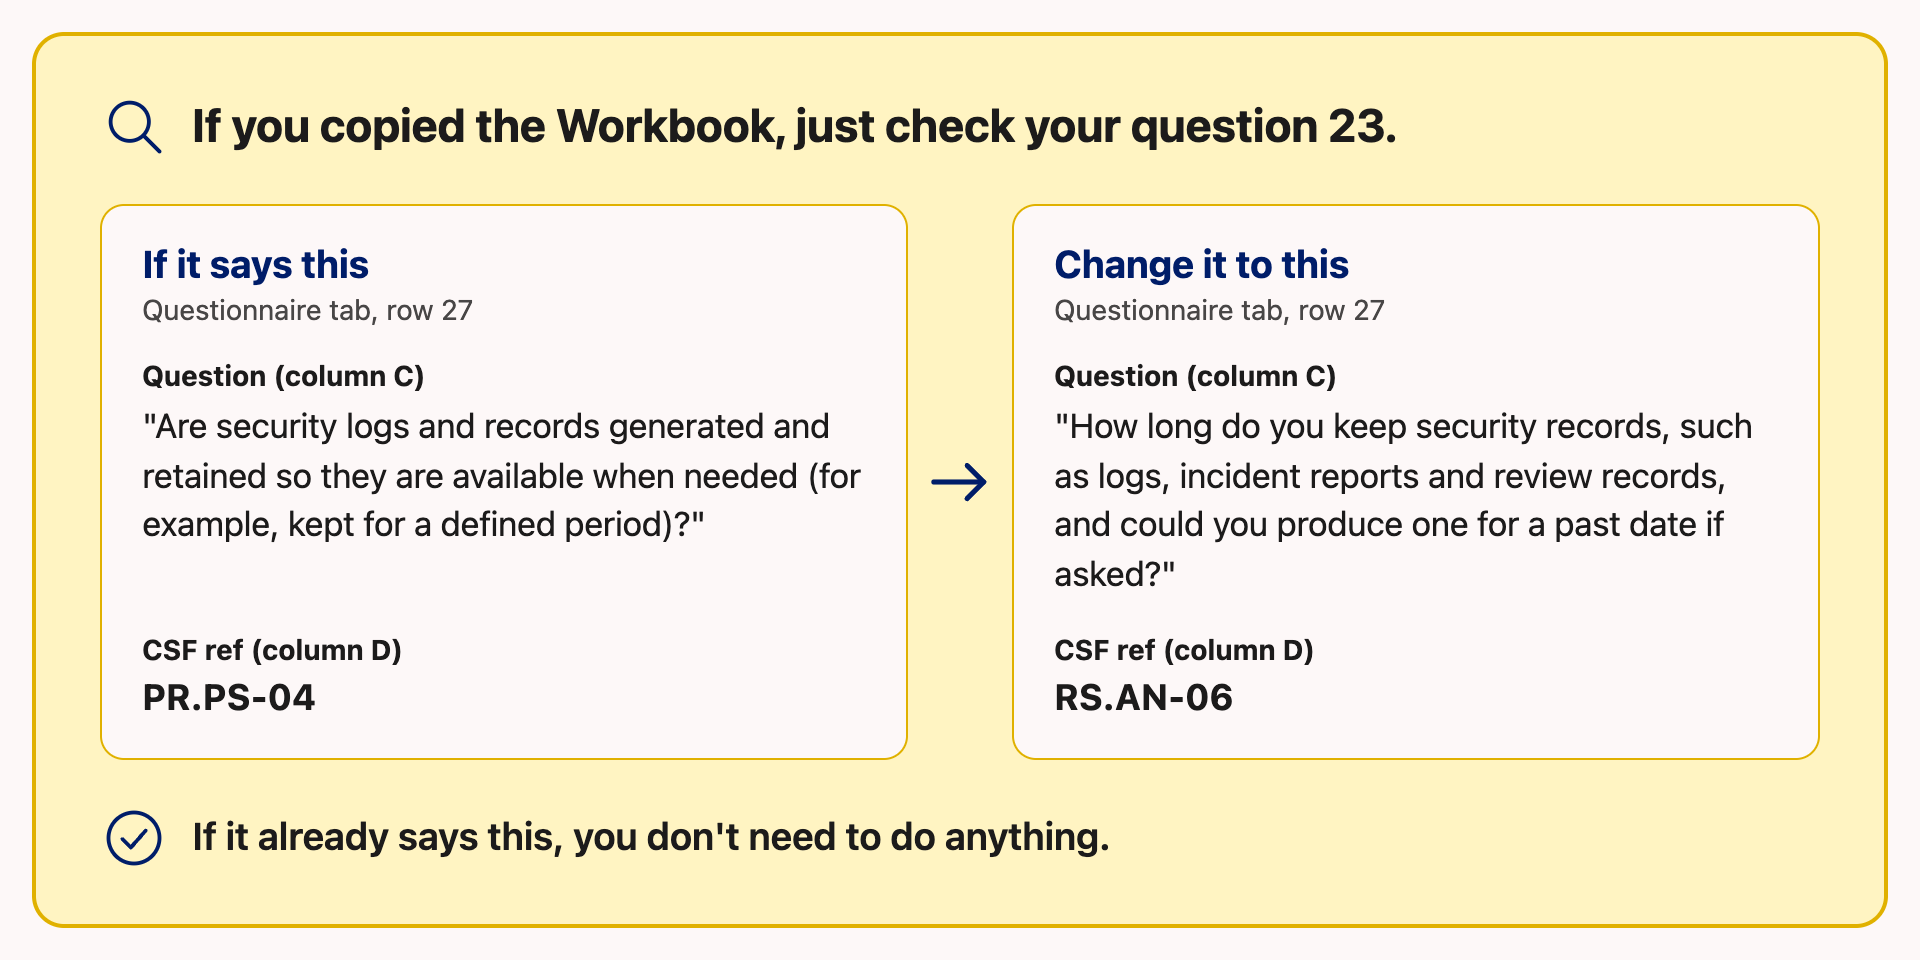
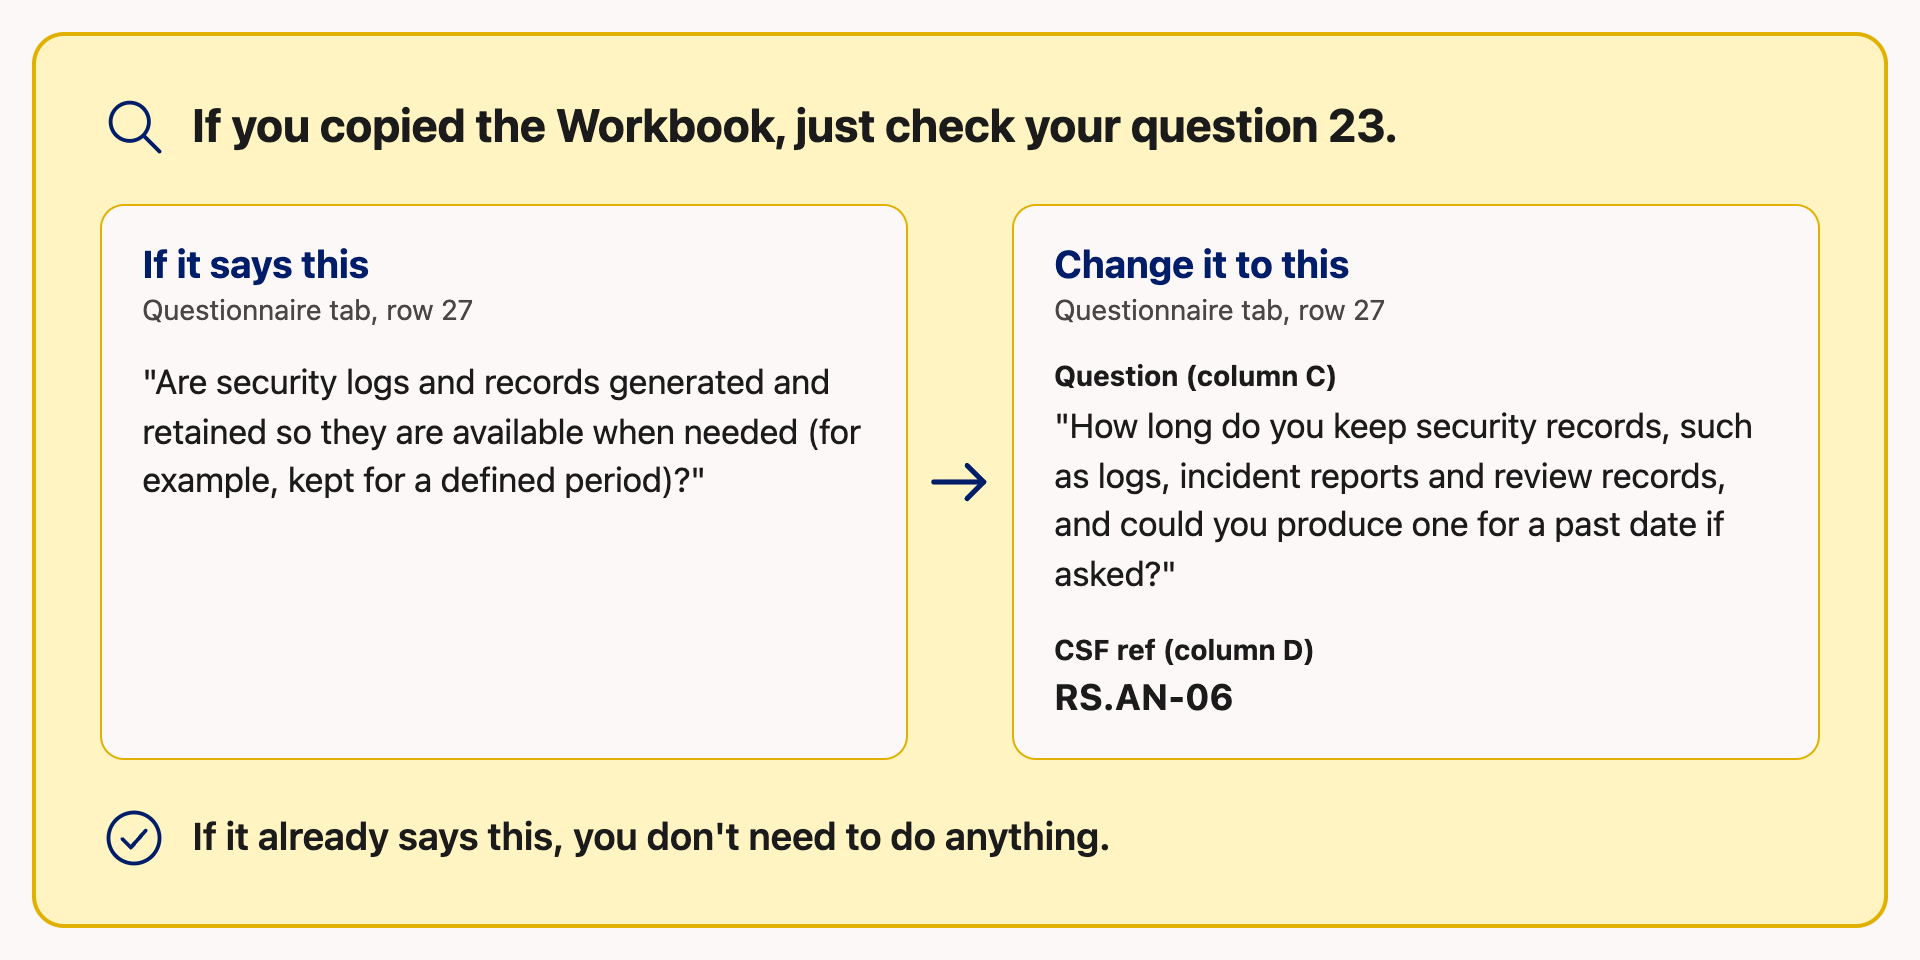
Publish vCISO P1 Step 1 interactives
Project 1 Step 1 interactives for the vCISO externship. Extern palette
only, vanilla JS, no external requests, keyboard operable, reduced-motion
safe.

Changed region(s): [[0.0625, 0.375, 0.4688, 0.5625], [0.0625, 0.6562, 0.2188, 0.75]]

diff --git a/vciso-p4-m12-check-question-23.html b/vciso-p4-m12-check-question-23.html
@@ -39,11 +39,7 @@
     <div class="panel">
       <div class="label">If it says this</div>
       <div class="where">Questionnaire tab, row 27</div>
-      <div class="k">Question (column C)</div>
-      <p class="q">"Are security logs and records generated and retained so they are available when needed (for example, kept for a defined period)?"</p>
-      <div class="spacer"></div>
-      <div class="k">CSF ref (column D)</div>
-      <div class="ref">PR.PS-04</div>
+      <p class="q" style="margin-top:16px">"Are security logs and records generated and retained so they are available when needed (for example, kept for a defined period)?"</p>
     </div>
 
     <div class="arrow"><svg viewBox="0 0 32 32" aria-hidden="true"><path d="M5 16h21"/><path d="M19 9l7 7-7 7"/></svg></div>
